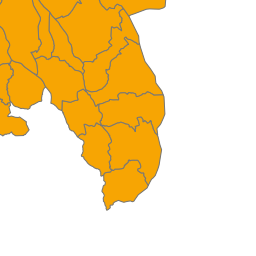
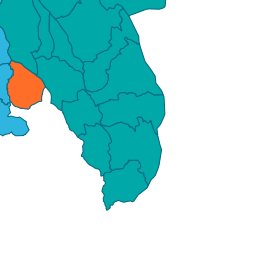
Mapserver WMTS

diff --git a/ntnu/mapserver/docs/innlandet-wmts.js b/ntnu/mapserver/docs/innlandet-wmts.js
@@ -41,7 +41,7 @@ const center = [500000, 6777400]; // Easting, Northing
 const zoom = 5;
 
 const kommuner = new ol.layer.Tile({
-    opacity: 0.7,
+    opacity: 0.8,
     source: new ol.source.WMTS({
         url: url,
         layer: layer,
@@ -57,7 +57,7 @@ const kommuner = new ol.layer.Tile({
 });
 
 const topograatone = new ol.layer.Tile({
-    extent: extentInnlandet,
+    extent: extentKartverket,
     source: new ol.source.TileWMS({
         url: 'https://wms.geonorge.no/skwms1/wms.topograatone',
         params: {

diff --git a/ntnu/mapserver/mapserver-wmts.md b/ntnu/mapserver/mapserver-wmts.md
@@ -25,8 +25,9 @@ innlandet.map:
 ```c
 /*
  Description:  NTNU Demo WMS Server WMS service to display on MS4W localhost (http://127.0.0.1)
+ Data source:  Innlandet fylke, in FGDB format.
  Author:       sverre.stikbakke@ntnu.no
- Last updated: 2025-03-13
+ Last updated: 2025-03-18
 */
 
 MAP
@@ -59,28 +60,37 @@ LAYER
   CONNECTIONTYPE ogr
   CONNECTION "/ms4w/apps/innlandet/Basisdata_34_Innlandet_25832_Kommuner_FGDB.gdb"
   DATA "kommune"
+
   PROJECTION
-      "init=epsg:25832"
+    "init=epsg:25832"
   END
+
   CLASSITEM "kommunenummer"
   CLASS
       NAME "Østre Toten"
       EXPRESSION "3442"
-      COLOR 150 107 157
-      OUTLINECOLOR 231 207 188
+	  STYLE
+        COLOR 255 110 41
+        OUTLINECOLOR 12 105 128
+	  END
   END
   CLASS
       NAME "Hedmark"
       EXPRESSION ( ( '[kommunenummer]' LT "3431" ) AND NOT ( '[kommunenummer]' IN "3407,3405" ) )
-      COLOR 201 134 134
-      OUTLINECOLOR 231 207 188
+	  STYLE
+        COLOR 0 168 168
+        OUTLINECOLOR 12 105 128
+	  END
   END
   CLASS
       NAME "Resten - dvs. Oppland unntatt Østre Toten"
-      COLOR 242 184 128
-      OUTLINECOLOR 231 207 188
+	  STYLE
+        COLOR 46 181 224
+        OUTLINECOLOR 12 105 128
+      END 
   END
 END
+
 END
 ```
 
@@ -494,7 +504,7 @@ const center = [500000, 6777400]; // Easting, Northing
 const zoom = 5;
 
 const kommuner = new ol.layer.Tile({
-    opacity: 0.7,
+    opacity: 0.8,
     source: new ol.source.WMTS({
         url: url,
         layer: layer,
@@ -510,7 +520,7 @@ const kommuner = new ol.layer.Tile({
 });
 
 const topograatone = new ol.layer.Tile({
-    extent: extentInnlandet,
+    extent: extentKartverket,
     source: new ol.source.TileWMS({
         url: 'https://wms.geonorge.no/skwms1/wms.topograatone',
         params: {
@@ -539,5 +549,5 @@ const map = new ol.Map({
 
 
 _NTNU 16.02.2021 Sverre Stikbakke_\
-_NTNU 17.03.2025 Forenklet oppsett med alle filer i /ms4w/apps/innlandet/_
+_NTNU 18.03.2025 Forenklet oppsett med alle filer i /ms4w/apps/innlandet/_
 
